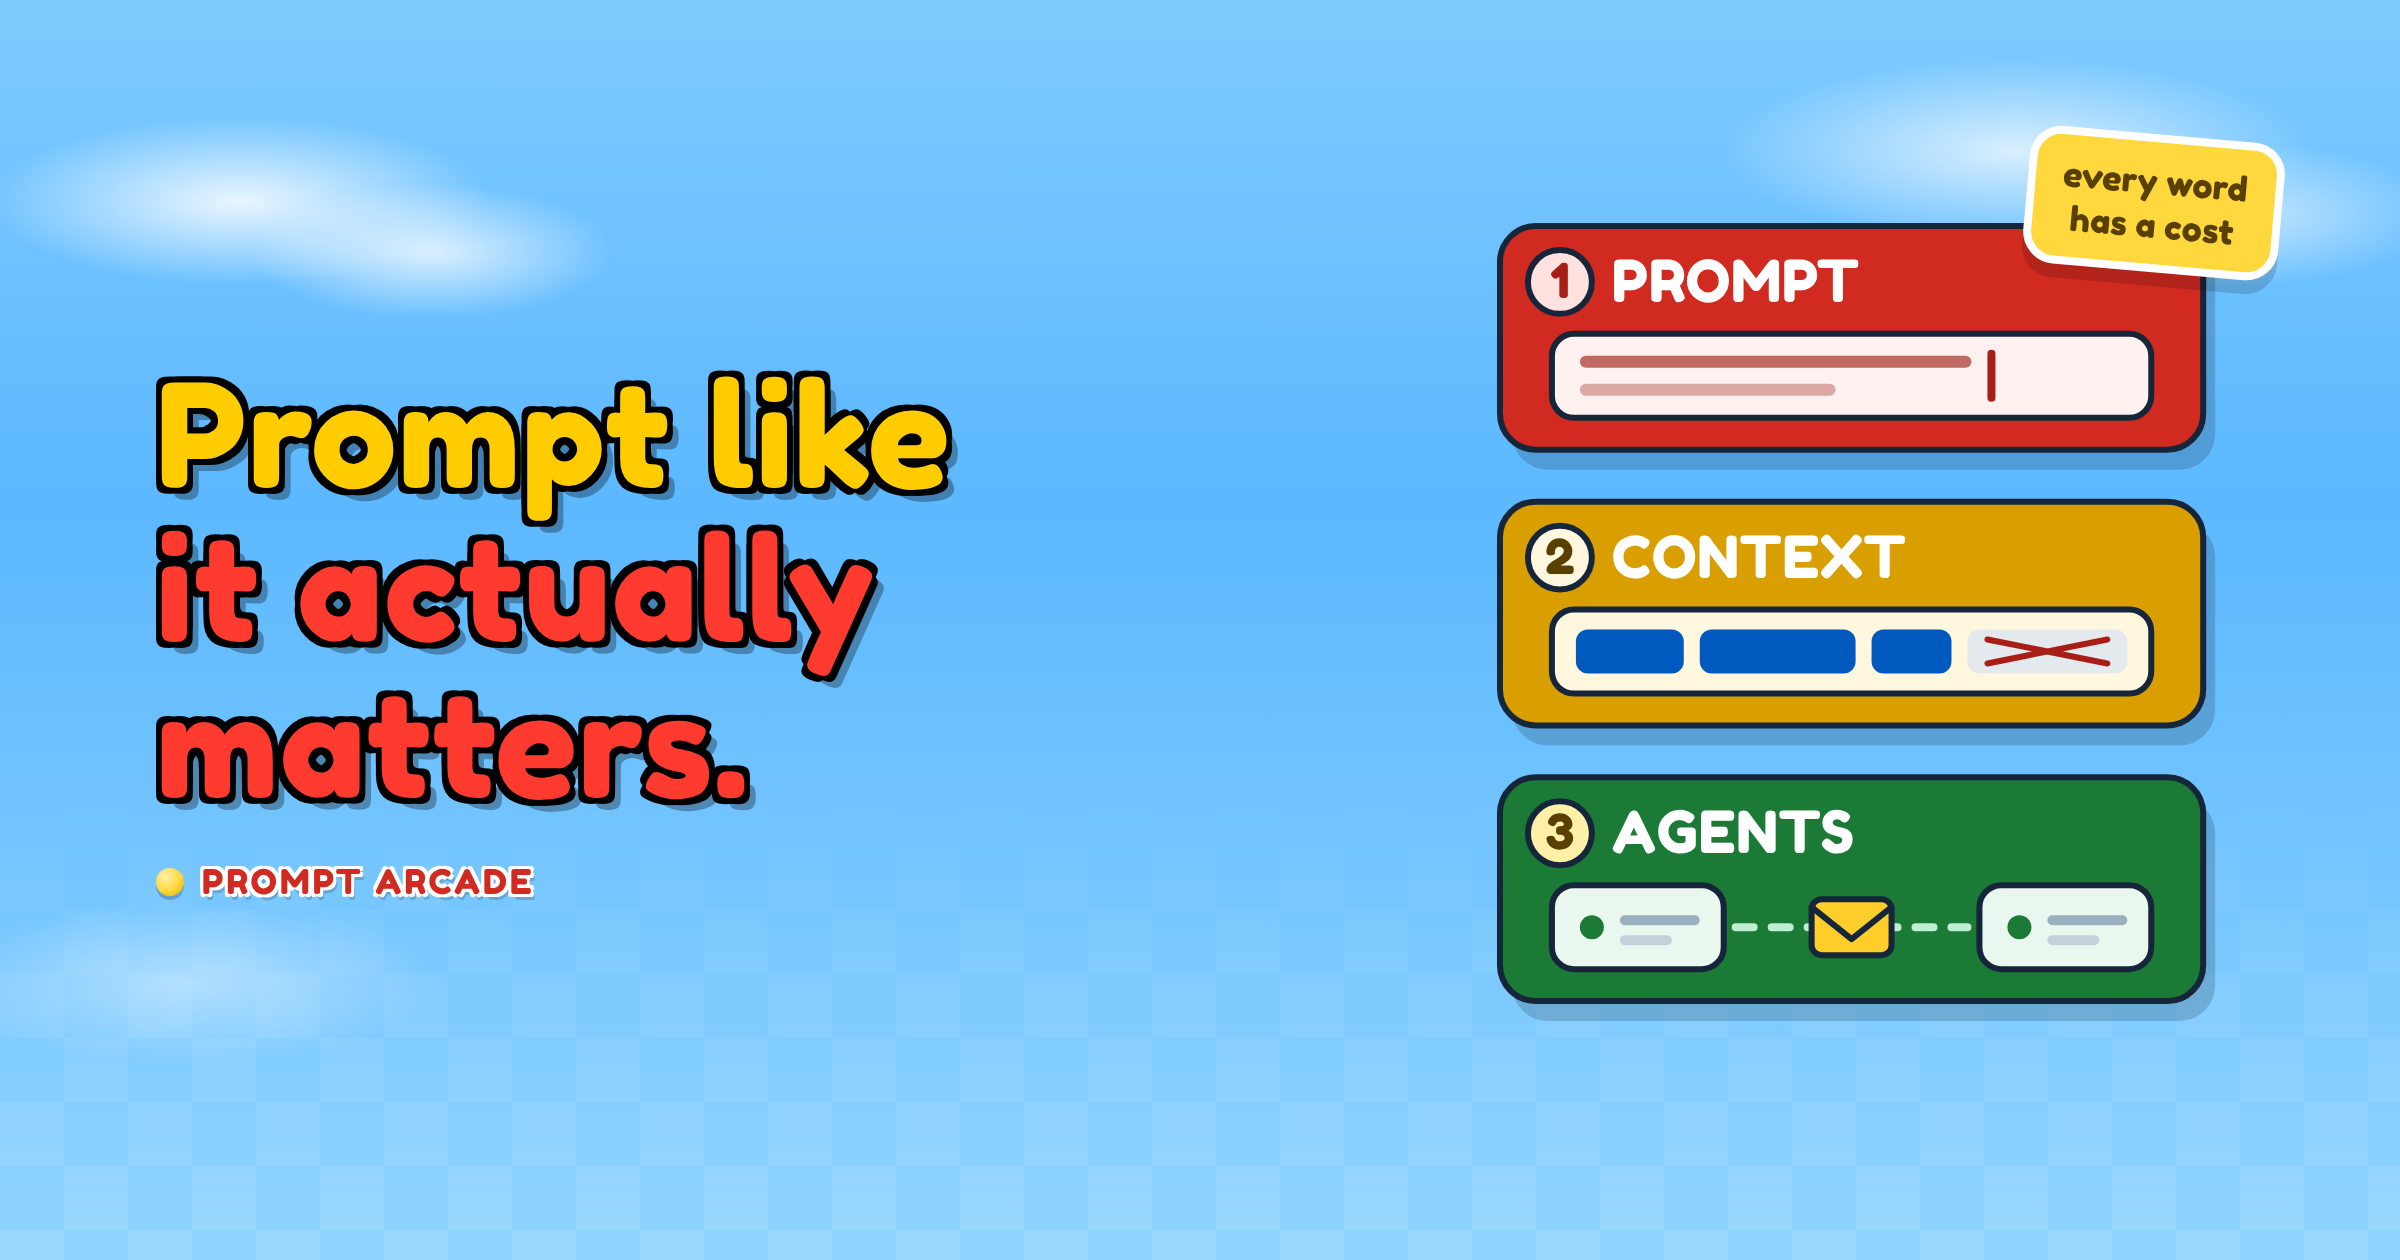
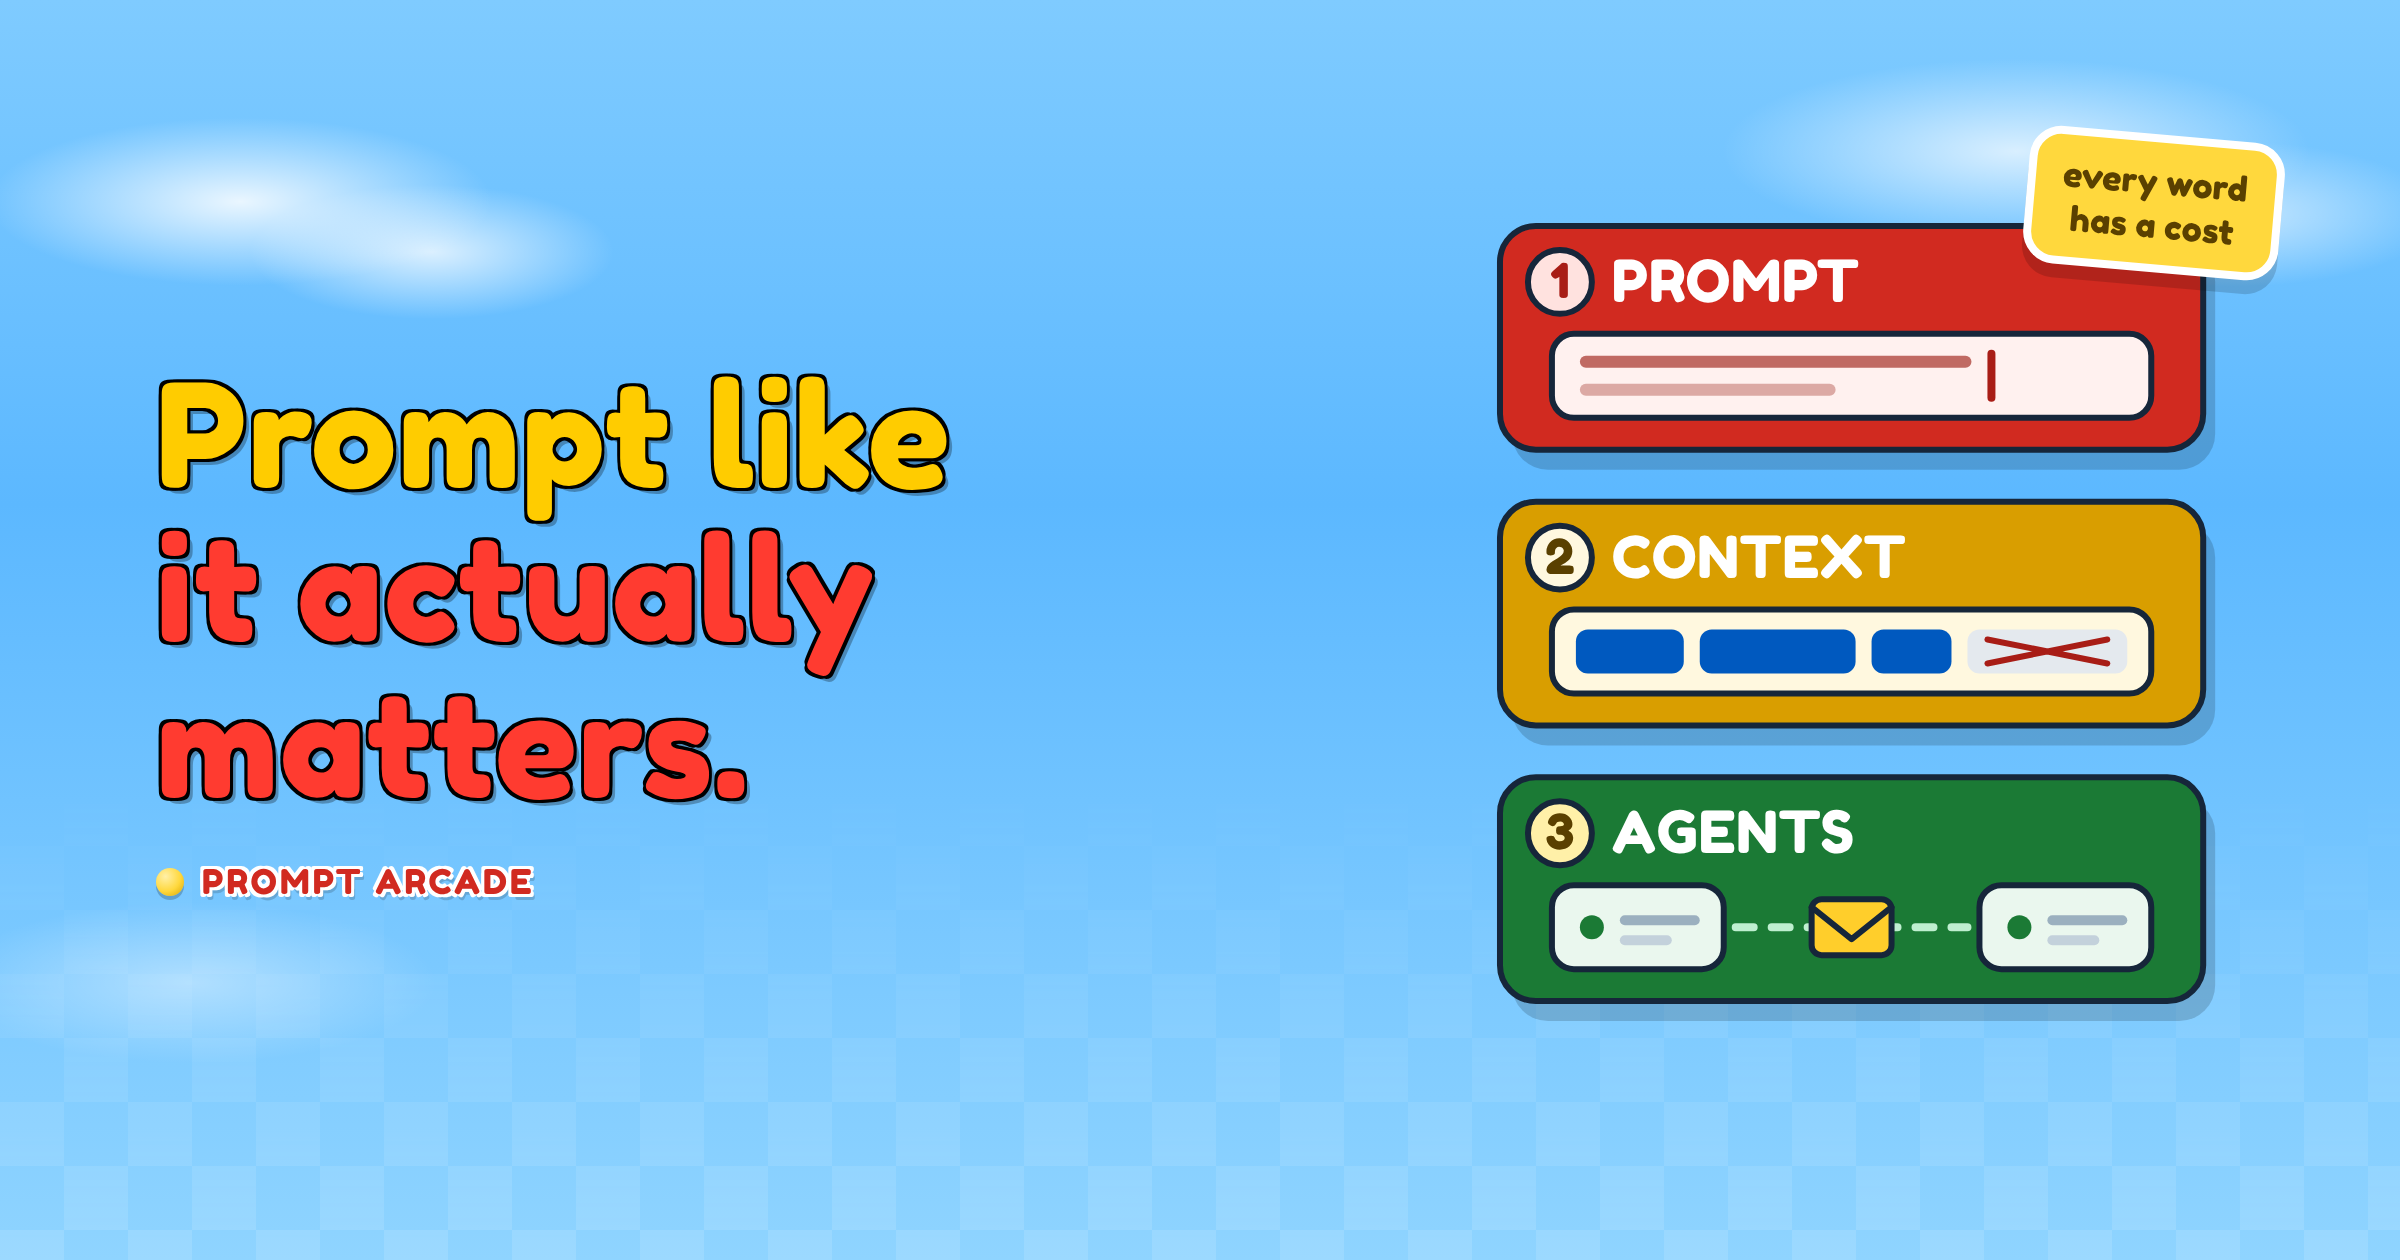
Halve the black outline on headings
Gold and red headings carried a 2px black outline on all four sides
plus a 4px drop. At display sizes that is a lot of black per letter,
and it was thickening the page as much as the spacing was.

Outline 2px to 1px everywhere it appears in live CSS: headings, the
score numeral, and the share card (which scales its outline with font
size, so 0.040 to 0.020).

The drop halves with it — 4px to 2px, and 4/5px to 2/3px on the score.
A 4px offset sitting under a 1px outline reads as a detached smear
rather than as extrusion, so leaving it would have traded one kind of
heaviness for another.

What does NOT change: the outline stays, because it is the only thing
making gold legible on sky. #FFCC00 on #5CB8FF measures 1.42:1 unaided;
the outline is what a reader uses and what a ratio formula cannot see.
Checked at both ends of the scale — 62px h1 and 21px h3 — and 1px holds
at the small end, which was the risk.

public/iterations/ keeps the 2px version. It is an archive of earlier
visual directions, and an archive that quietly tracks the current
design is not a record of anything.

The home page's accessibility note said "a 2px outline"; it now says
1px, because a page that describes its own build has to stay true when
the build moves.

Verified: six pages at 390/768/1440 with no horizontal scroll,
offscreen element, 404 or console error; contrast unchanged at 12 AA
failures, all of them these headings; share card regenerated; 64
assertions passing.
[…]

Changed region(s): [[0.0625, 0.2786, 0.4062, 0.5571], [0.0625, 0.5571, 0.3125, 0.65]]

diff --git a/public/index.html b/public/index.html
@@ -266,7 +266,7 @@
       <h3>How this was built</h3>
       <dl>
         <dt>Accessibility</dt>
-        <dd>Every visible text node measured against its effective background across all five pages. 70 WCAG AA failures found, 58 fixed. White prose on the sky measured 2.15:1; near-black on the same sky measures about 9:1, so the first instinct was wrong. The 12 that remain are gold headings carried by a 2px outline the ratio formula cannot see, and are reported rather than "fixed" into something less legible.</dd>
+        <dd>Every visible text node measured against its effective background across all five pages. 70 WCAG AA failures found, 58 fixed. White prose on the sky measured 2.15:1; near-black on the same sky measures about 9:1, so the first instinct was wrong. The 12 that remain are gold headings carried by a 1px outline the ratio formula cannot see, and are reported rather than "fixed" into something less legible.</dd>
 
         <dt>Scoring integrity</dt>
         <dd>Scoring runs on the server, so the rubrics and the reference answer never reach the browser — the only way to find out what a level rewards is to attempt it. Two engines sit behind the same endpoint. The one running now is pattern matching, which is instant and free and cannot tell whether an instruction does what a criterion asks, only whether the words are present. The other reads the attempt and has to quote the span of your prompt that earned each point, with the server checking the quote is really there; it is built and switches on with an API key.</dd>

diff --git a/public/css/mario.css b/public/css/mario.css
@@ -147,8 +147,11 @@ h1, h2, h3, .brand, .score-num, .why-card .num, .tier-badge .tier-name,
 }
 h1, h2, h3 {
   color: var(--yellow);
-  text-shadow: -2px -2px 0 #000, 2px -2px 0 #000, -2px 2px 0 #000, 2px 2px 0 #000,
-               4px 4px 0 rgba(0,0,0,.3);
+  /* The outline is what makes gold legible on sky — 1.42:1 unaided —
+     so it stays, at half its old weight. The drop halves with it: a 4px
+     offset under a 1px outline reads as a smear, not as extrusion. */
+  text-shadow: -1px -1px 0 #000, 1px -1px 0 #000, -1px 1px 0 #000, 1px 1px 0 #000,
+               2px 2px 0 rgba(0,0,0,.28);
 }
 h1 { font-size: clamp(38px, 5.5vw, 62px); }
 h2 { font-size: clamp(27px, 3.4vw, 38px); }
@@ -485,7 +488,7 @@ main.wrap > p {
 
 .score-head { display: flex; align-items: center; gap: 22px; flex-wrap: wrap; margin-bottom: 22px; padding-bottom: 18px; border-bottom: 3px dashed rgba(0,0,0,.12); }
 .score-num { font-size: 50px; color: var(--coin); line-height: 1;
-  text-shadow: -2px -2px 0 #000, 2px -2px 0 #000, -2px 2px 0 #000, 2px 2px 0 #000, 4px 5px 0 rgba(0,0,0,.25); }
+  text-shadow: -1px -1px 0 #000, 1px -1px 0 #000, -1px 1px 0 #000, 1px 1px 0 #000, 2px 3px 0 rgba(0,0,0,.25); }
 .score-lbl { font-size: 12px; color: var(--text-faint); font-weight: 800; text-transform: uppercase; letter-spacing: .1em; }
 .stars { font-size: 26px; letter-spacing: 4px; }
 .star-on { color: var(--coin); } .star-off { color: #D6DCE2; }

diff --git a/scripts/thumbnail/card.html b/scripts/thumbnail/card.html
@@ -69,11 +69,11 @@
     letter-spacing: .5px;
     color: var(--yellow);
     text-shadow:
-      calc(var(--h1) * -0.040) calc(var(--h1) * -0.040) 0 #000,
-      calc(var(--h1) *  0.040) calc(var(--h1) * -0.040) 0 #000,
-      calc(var(--h1) * -0.040) calc(var(--h1) *  0.040) 0 #000,
-      calc(var(--h1) *  0.040) calc(var(--h1) *  0.040) 0 #000,
-      calc(var(--h1) *  0.080) calc(var(--h1) *  0.080) 0 rgba(0,0,0,.3);
+      calc(var(--h1) * -0.020) calc(var(--h1) * -0.020) 0 #000,
+      calc(var(--h1) *  0.020) calc(var(--h1) * -0.020) 0 #000,
+      calc(var(--h1) * -0.020) calc(var(--h1) *  0.020) 0 #000,
+      calc(var(--h1) *  0.020) calc(var(--h1) *  0.020) 0 #000,
+      calc(var(--h1) *  0.040) calc(var(--h1) *  0.040) 0 rgba(0,0,0,.28);
   }
   h1 .red { color: var(--red); }
 
